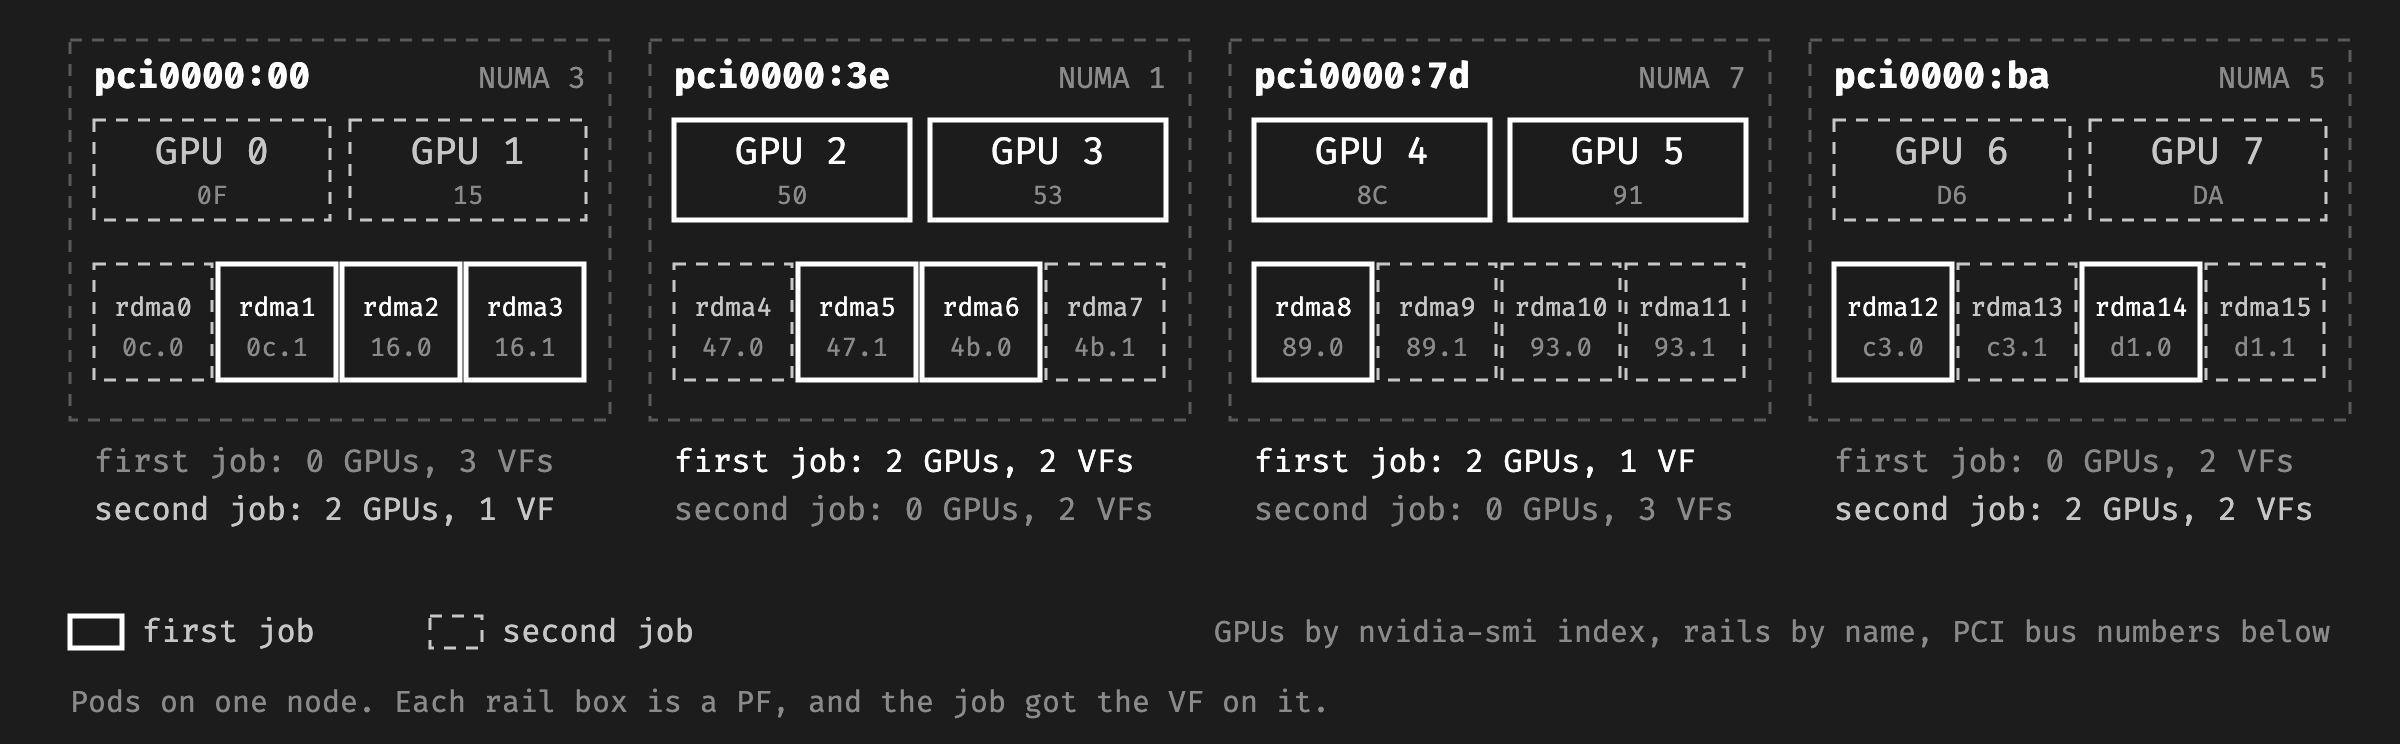
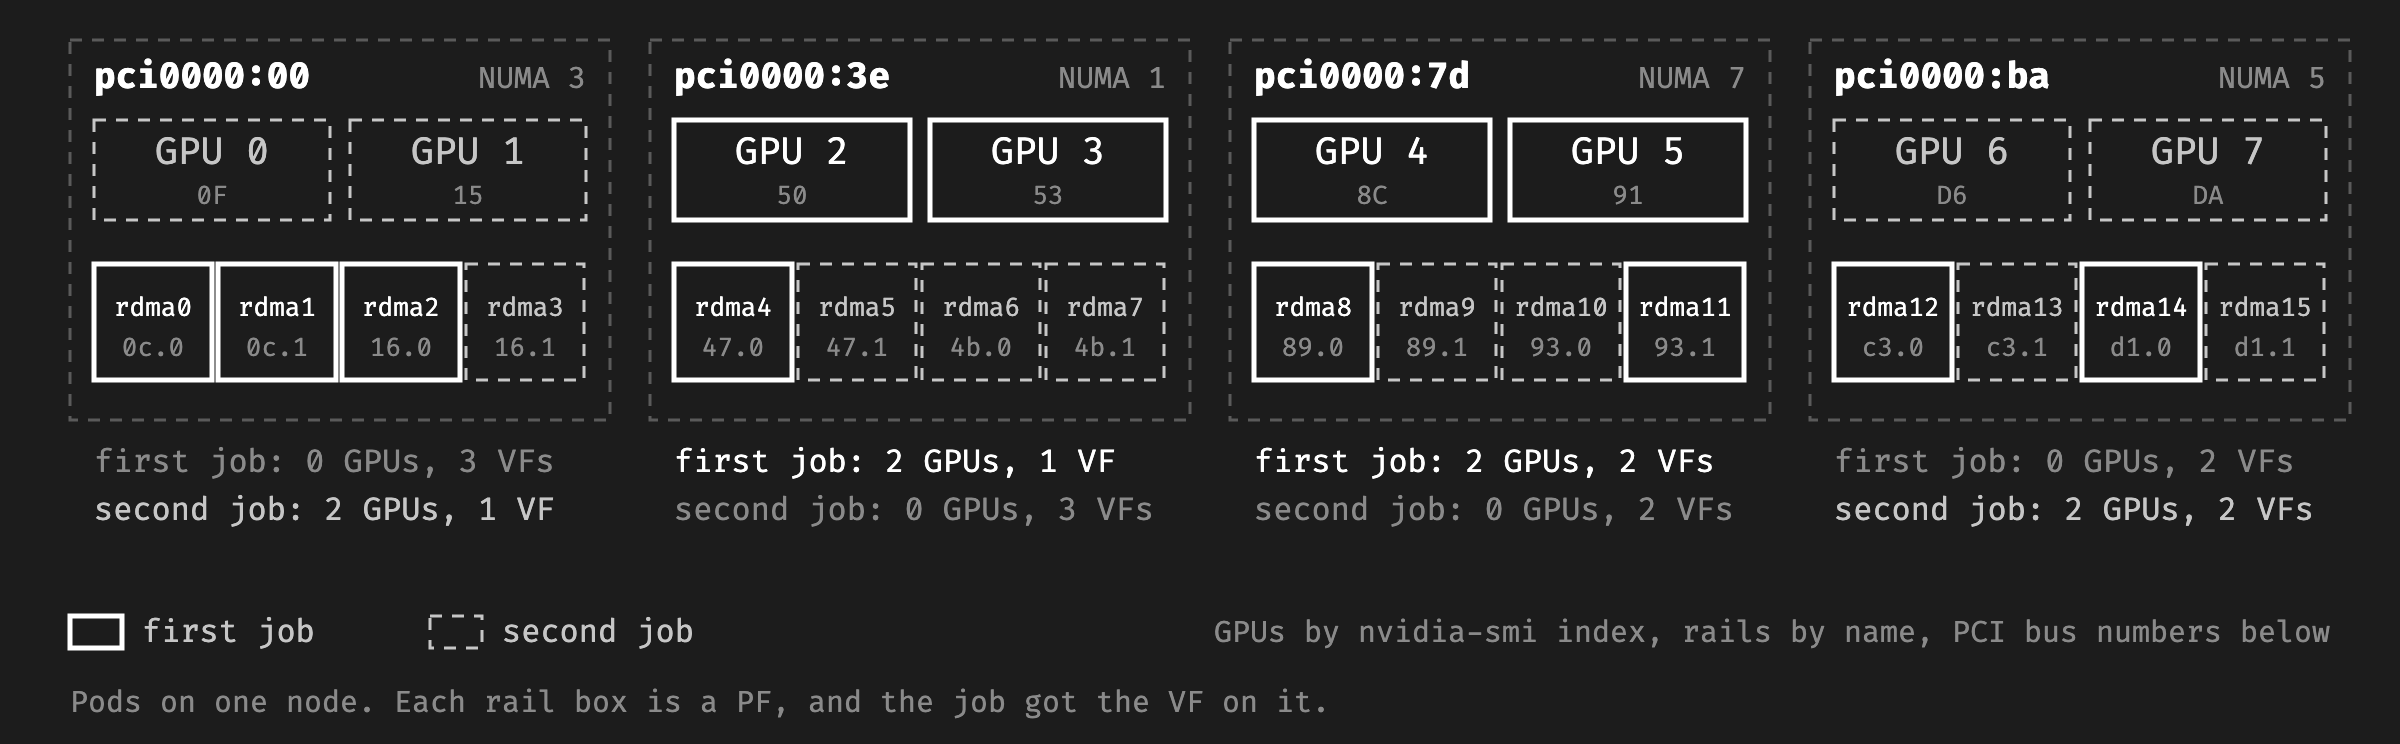
Add Topology Manager results to part 2

diff --git a/content/posts/getting-rdma-into-kubernetes-pods-part-2-sriov-vfs.md b/content/posts/getting-rdma-into-kubernetes-pods-part-2-sriov-vfs.md
@@ -11,7 +11,7 @@ This series tests four ways to give a Kubernetes pod RDMA for GPU training, on t
 
 With SR-IOV, each port of a NIC is a physical function (PF) that can create virtual functions (VFs). A VF has its own network interface, MAC address and RDMA device. Each pod gets one VF on each rail, and it stays on the pod network. The pod is not privileged. With 1 VF per PF, it got the same bandwidth as `hostNetwork`. NCCL reached 190.55 GB/s.
 
-The hard part is sharing the rails between pods. With 1 VF per PF, a pod that takes all 16 rails takes them for the whole node. Two jobs can split the rails, with 4 GPUs and 8 VFs each per node. Each PCIe root of these nodes has 2 GPUs and 2 NICs. NCCL uses GPUDirect RDMA only when the NIC is close enough to the GPU. But the kubelet got the GPUs and the VFs from two device plugins, and did not match them. So many NCCL channels used a NIC on another root, and their data went through CPU memory. The two jobs got 17.95 and 8.99 GB/s. With 2 VFs per PF and one resource for each rail, every pod got a VF on every rail. Two jobs with 4 GPUs per node then got 96.28 and 96.35 GB/s at the same time. In [part 1](/posts/getting-rdma-into-kubernetes-pods-part-1-hostnetwork/), a job with 4 GPUs per node got 96.64 GB/s.
+The hard part is sharing the rails between pods. With 1 VF per PF, a pod that takes all 16 rails takes them for the whole node. Two jobs can split the rails, with 4 GPUs and 8 VFs each per node. Each PCIe root of these nodes has 2 GPUs and 2 NICs. NCCL uses GPUDirect RDMA only when the NIC is close enough to the GPU. But the kubelet got the GPUs and the VFs from two device plugins, and did not match them. So on one node, NCCL sent the traffic of each job through only the 3 VFs next to its GPUs. On the other node, one job also used NICs on other roots, and that data went through CPU memory. The two jobs got 43.71 and 26.77 GB/s. With the `restricted` Topology Manager policy, the kubelet gave each pod GPUs and VFs on the same NUMA nodes. The two jobs then got 96.28 and 96.35 GB/s at the same time. With 2 VFs per PF and one resource for each rail, every pod got a VF on every rail. Two jobs with 4 GPUs per node then got 96.28 and 96.35 GB/s at the same time. In [part 1](/posts/getting-rdma-into-kubernetes-pods-part-1-hostnetwork/), a job with 4 GPUs per node got 96.64 GB/s.
 
 I also tested the exclusive RDMA namespace mode with the RDMA CNI. By default, the RDMA CNI forced traffic class 0 on each VF, and `ib_write_bw` got about half. With `rdmaQoS` in the network, it got the full bandwidth.
 
@@ -509,18 +509,20 @@ The port problem of [part 1](/posts/getting-rdma-into-kubernetes-pods-part-1-hos
 
 ### Splitting the rails
 
-With 1 VF per PF, a node has 16 VFs, so only one pod per node can get every rail. For two jobs per node, each job asked for 8 VFs. Both jobs started. Each pod got 8 VF interfaces, on the rails of its VFs. These are the pods on one node:
+With 1 VF per PF, a node has 16 VFs, so only one pod per node can get every rail. For two jobs per node, each job asked for 8 VFs. I ran these jobs on the nodes of [part 1](/posts/getting-rdma-into-kubernetes-pods-part-1-hostnetwork/). Both jobs started. Each pod got 8 VF interfaces, on the rails of its VFs. These are the pods on one node:
 
 | Job | GPUs | Rails of its VFs |
 |---|---|---|
-| First | 2, 3, 4, 5 | `rdma1`, `rdma2`, `rdma3`, `rdma5`, `rdma6`, `rdma8`, `rdma12`, `rdma14` |
-| Second | 0, 1, 6, 7 | `rdma0`, `rdma4`, `rdma7`, `rdma9`, `rdma10`, `rdma11`, `rdma13`, `rdma15` |
+| First | 2, 3, 4, 5 | `rdma0`, `rdma1`, `rdma2`, `rdma4`, `rdma8`, `rdma11`, `rdma12`, `rdma14` |
+| Second | 0, 1, 6, 7 | `rdma3`, `rdma5`, `rdma6`, `rdma7`, `rdma9`, `rdma10`, `rdma13`, `rdma15` |
 
 By PCIe root, the two jobs got these devices:
 
 [![Which GPUs and VFs the two jobs got on one node, by PCIe root](/images/vf-split-rails.png)](/images/vf-split-rails.png)
 
-The VFs did not follow the GPUs. In [part 1](/posts/getting-rdma-into-kubernetes-pods-part-1-hostnetwork/), NCCL put GPUs 0, 1, 6 and 7 on `rdma0` to `rdma3` and `rdma12` to `rdma15`. The other 4 GPUs used `rdma4` to `rdma11`. Here, each job got VFs on NICs on both sides. The two ports of one NIC sometimes went to different jobs. In each job, 4 of the 6 channels had a network connection without GPUDirect RDMA, all on the other node. NCCL uses GPUDirect RDMA only up to a set distance between the NIC and the GPU. `NCCL_NET_GDR_LEVEL` sets that distance, and by default NCCL picks it from the topology. Without GPUDirect RDMA, the data goes through CPU memory.
+The VFs did not follow the GPUs. In [part 1](/posts/getting-rdma-into-kubernetes-pods-part-1-hostnetwork/), NCCL put GPUs 0, 1, 6 and 7 on `rdma0` to `rdma3` and `rdma12` to `rdma15`. The other 4 GPUs used `rdma4` to `rdma11`. Here, each job got VFs on NICs on both sides. The two ports of one NIC sometimes went to different jobs.
+
+On this node, each job had only 3 VFs on the PCIe roots of its GPUs. Those were `rdma4`, `rdma8` and `rdma11` for the first job, and `rdma3`, `rdma13` and `rdma15` for the second. NCCL sent all the network traffic of each job on this node through these 3 VFs, with GPUDirect RDMA. On the other node, the second job also used NICs on other roots for 2 of its GPUs. NCCL uses GPUDirect RDMA only up to a set distance between the NIC and the GPU. `NCCL_NET_GDR_LEVEL` sets that distance, and by default NCCL picks it from the topology. Without GPUDirect RDMA, the data goes through CPU memory.
 
 [![The 4 PCIe roots of one BM.GPU.B4.8 node, each with 2 GPUs and 2 NICs, and the two data paths between a GPU and a NIC](/images/gpu-nic-topology.png)](/images/gpu-nic-topology.png)
 
@@ -528,10 +530,55 @@ The bandwidth dropped:
 
 | Job | `busbw` at 8 GiB, out of place | In place |
 |---|---|---|
-| First | 17.95 GB/s | 17.93 GB/s |
-| Second | 8.99 GB/s | 25.63 GB/s |
+| First | 43.71 GB/s | 40.72 GB/s |
+| Second | 26.77 GB/s | 26.89 GB/s |
 
-The second job ran longer, and its in-place half ran after the first job had finished. With the CRI-O fix of [part 1](/posts/getting-rdma-into-kubernetes-pods-part-1-hostnetwork/), two jobs like these got 96.40 and 96.36 GB/s at the same time.
+With the CRI-O fix of [part 1](/posts/getting-rdma-into-kubernetes-pods-part-1-hostnetwork/), two jobs like these got 96.40 and 96.36 GB/s at the same time.
+
+One job alone, with the same request, got 96.22 GB/s. The kubelet gave it GPUs 0 to 3, and 5 or 6 of its 8 VFs on their PCIe roots. Every NCCL channel used GPUDirect RDMA. So with the policy `none`, the result depends on which VFs the pod gets.
+
+### Aligning the VFs with the Topology Manager
+
+The kubelet has a Topology Manager that aligns devices by NUMA node. It is off by default, with the policy `none`. On these nodes, each NUMA node with GPUs has 2 GPUs and the 2 NICs next to them:
+
+| NUMA node | GPUs | Rails |
+|---|---|---|
+| 1 | 2, 3 | `rdma4` to `rdma7` |
+| 3 | 0, 1 | `rdma0` to `rdma3` |
+| 5 | 6, 7 | `rdma12` to `rdma15` |
+| 7 | 4, 5 | `rdma8` to `rdma11` |
+
+So on these nodes, aligning by NUMA node also puts each GPU next to its NIC. I added two settings to `/etc/kubernetes/kubelet-config.json` on both GPU nodes and restarted the kubelet:
+
+```json
+  "topologyManagerPolicy": "restricted",
+  "topologyManagerScope": "pod"
+```
+
+The kubelet logged the new policy:
+
+```
+"Creating topology manager with policy per scope" topologyPolicyName="restricted" topologyScopeName="pod" topologyPolicyOptions={"PreferClosestNUMA":false,"MaxAllowableNUMANodes":8}
+```
+
+With `restricted`, the kubelet admits a pod only if it can align all of its devices. They must fit on the smallest set of NUMA nodes. Otherwise, it rejects the pod. I ran the same jobs again:
+
+| Run with 4 GPUs and 8 VFs per node | Policy `none` | Policy `restricted` |
+|---|---|---|
+| One job alone | 96.22 GB/s | 96.66 GB/s |
+| Two jobs at the same time | 43.71 and 26.77 GB/s | 96.28 and 96.35 GB/s |
+
+Every pod got its 4 GPUs and its 8 VFs on the same 2 NUMA nodes. In the two-job run, one job got NUMA nodes 5 and 7, and the other got 1 and 3. Every NCCL channel used GPUDirect RDMA. The results match the CRI-O fix of [part 1](/posts/getting-rdma-into-kubernetes-pods-part-1-hostnetwork/).
+
+`restricted` has a downside too, because it rejects pods that it cannot align. A job with 4 GPUs and 16 VFs per node is an example. The VFs need all 4 NUMA nodes with NICs, but the GPUs need only 2. The scheduler placed its workers, and then the kubelet rejected them:
+
+```
+Warning   TopologyAffinityError   Resources cannot be allocated with Topology locality
+```
+
+The scheduler does not know about NUMA nodes, so it cannot avoid this. The job with 8 GPUs and 16 VFs still ran, at 189.06 GB/s.
+
+I changed the kubelet configuration by hand on the two nodes, and I put it back after the tests. For real use, the change belongs in the node setup.
 
 ## Two VFs per PF
 
